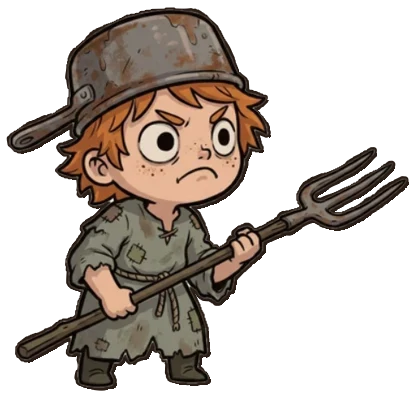
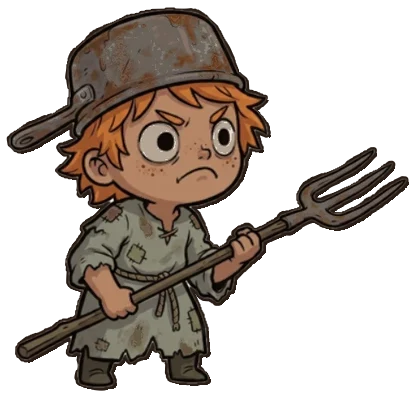
Locked palette + skin check/fix tool; hero skin toned down; height-based size ladder

diff --git a/src/game/game.ts b/src/game/game.ts
@@ -461,9 +461,11 @@ export class Game {
   }
 
   private enemyScale(kind: EnemyKind, s: Sprite): number {
-    // Painted creatures: thin shapes (raptor, bat) need more size to read in a crowd.
-    const r = { grub: 19, bat: 21, beetle: 26, wolf: 30, shroom: 22, brute: 40, boss: 64 }[kind];
-    return (r * 2.9) / s.w;
+    // Size ladder by on-screen HEIGHT (world units) against the hero (~130): small fry clearly
+    // smaller than the hero, tanks about his size, troll and ogre loom over him. Painted art is
+    // tall or wide depending on the creature, so height (not width) keeps the ladder honest.
+    const H = { grub: 70, bat: 62, shroom: 92, beetle: 120, wolf: 118, brute: 215, boss: 320 }[kind];
+    return H / s.h;
   }
 
   private drawWorld(ctx: Ctx, m: Model): void {
@@ -649,7 +651,7 @@ export class Game {
     const blink = m.invuln > 0 && m.status === 'play' && Math.floor(this.time * 18) % 2 === 0;
     const evo = this.evolveT > 0 ? 1 + Math.sin((1.3 - this.evolveT) * 14) * 0.08 * this.evolveT : 1;
     if (this.hero.ready) {
-      this.hero.draw(ctx, m.px, m.py, pr * 5.4 * evo, flip, moving, this.evolveT > 0.9 ? 1 : 0, blink ? 0.55 : 1);
+      this.hero.draw(ctx, m.px, m.py, pr * 6.0 * evo, flip, moving, this.evolveT > 0.9 ? 1 : 0, blink ? 0.55 : 1);
     } else {
       ctx.globalAlpha = blink ? 0.55 : 1;
       this.blit(ctx, s, m.px, m.py - bob, sc * evo, 1 - sq, 1 + sq, moving ? m.mx * 0.08 * flip : 0, this.evolveT > 0.9 ? 1 : 0, flip);

diff --git a/tools/anim-lab/palette.py b/tools/anim-lab/palette.py
@@ -1,0 +1,102 @@
+"""Game palette tools (STYLE-LOCK).
+  python palette.py build              -> art/STYLE-LOCK/palette.json + palette.png from the approved masters
+  python palette.py check <img...>     -> flags skin / overall brightness outside the locked range
+  python palette.py fixskin <in> <out> -> pulls skin pixels into the locked skin range
+"""
+import sys, json, colorsys
+import numpy as np
+from PIL import Image, ImageDraw
+
+def rgb_to_hsv(rgb):
+    r, g, b = rgb[..., 0], rgb[..., 1], rgb[..., 2]
+    mx = rgb.max(-1); mn = rgb.min(-1); d = mx - mn
+    h = np.zeros_like(mx); nz = d > 1e-6
+    rr = nz & (mx == r); gg = nz & (mx == g) & ~rr; bb = nz & ~rr & ~gg
+    h[rr] = ((g - b)[rr] / d[rr]) % 6; h[gg] = (b - r)[gg] / d[gg] + 2; h[bb] = (r - g)[bb] / d[bb] + 4
+    h = h / 6; s = np.where(mx > 0, d / np.maximum(mx, 1e-6), 0)
+    return np.stack([h, s, mx], -1)
+
+def hsv_to_rgb(hsv):
+    h, s, v = hsv[..., 0] * 6, hsv[..., 1], hsv[..., 2]
+    i = np.floor(h).astype(int) % 6; f = h - np.floor(h)
+    p, q, t = v * (1 - s), v * (1 - s * f), v * (1 - s * (1 - f))
+    out = np.choose(i[..., None] * 0 + np.arange(3)[None] * 0 + i[..., None], [
+        np.stack([v, t, p], -1), np.stack([q, v, p], -1), np.stack([p, v, t], -1),
+        np.stack([p, q, v], -1), np.stack([t, p, v], -1), np.stack([v, p, q], -1)])
+    return out
+
+LOCK = 'art/STYLE-LOCK/'
+MASTERS = ['enemy-gnome.jpg', 'enemy-bat.jpg', 'enemy-boarorc.jpg', 'enemy-orc.jpg', 'enemy-goblin.jpg',
+           'enemy-troll.jpg', 'enemy-ogre.jpg', 'hero-master.png']
+# Locked ranges (HSV 0-1), measured from the approved ogre + reference crops, then darkened for the dark forest floor.
+SKIN = {'h': (0.03, 0.10), 's': (0.34, 0.48), 'v': (0.60, 0.72)}
+
+def pixels(path):
+    a = np.asarray(Image.open(LOCK + path if not path.startswith(('art', 'public', 'C:', 'D:')) else path).convert('RGBA'), np.float32) / 255
+    rgb = a[..., :3].reshape(-1, 3); al = a[..., 3].reshape(-1)
+    white = (rgb.min(1) > 0.9)
+    return rgb[(al > 0.5) & ~white]
+
+def hsv(rgb):
+    return rgb_to_hsv(rgb)
+
+def is_skin(h):
+    return (h[:, 0] > 0.02) & (h[:, 0] < 0.11) & (h[:, 1] > 0.15) & (h[:, 1] < 0.6) & (h[:, 2] > 0.5)
+
+def build():
+    from scipy.cluster.vq import kmeans2
+    allpx = np.concatenate([pixels(p)[::9] for p in MASTERS])
+    np.random.seed(3)
+    cent, lab = kmeans2(allpx, 16, minit='++', seed=3)
+    order = np.argsort(-np.bincount(lab, minlength=16))
+    cols = [cent[i] for i in order]
+    hexs = ['#%02x%02x%02x' % tuple(int(c * 255) for c in col) for col in cols]
+    roles = {
+        'ink': '#2a1d16', 'skin_light': '#d9a98c', 'skin': '#c48f74', 'skin_shadow': '#9a6b58', 'blush': '#c97a72',
+        'cloth_olive': '#6f7357', 'cloth_brown': '#6b5240', 'leather': '#5a3f2c', 'rust': '#9a5a32', 'iron': '#6e6a64',
+        'hair_ginger': '#b8642e', 'orc_green': '#7f9a5a', 'goblin_green': '#8a8f55', 'mushroom_red': '#a8483a',
+        'troll_moss': '#6f7046', 'bat_grey': '#6a6460', 'eye_white': '#ece4d4', 'fire': '#e8a23a', 'blood_dark': '#4a2a22',
+    }
+    json.dump({'from_masters': hexs, 'roles': roles, 'skin_hsv_range': SKIN,
+               'rules': ['No pure white or pure black fills (eye whites use eye_white, lines use ink).',
+                         'Max saturation 0.55 except fire / magic VFX.',
+                         'Skin must stay inside skin_hsv_range (check with palette.py check).',
+                         'Each enemy keeps ONE identity colour from roles, muted.']},
+              open(LOCK + 'palette.json', 'w'), indent=1)
+    W = 120; im = Image.new('RGB', (W * 8, W * 2 + 40 + 40 * ((len(roles) + 5) // 6)), (40, 34, 30)); d = ImageDraw.Draw(im)
+    for i, h in enumerate(hexs):
+        x, y = (i % 8) * W, (i // 8) * W
+        d.rectangle([x + 4, y + 4, x + W - 4, y + W - 4], fill=h); d.text((x + 8, y + W - 20), h, fill='white')
+    y0 = W * 2 + 20
+    for i, (k, h) in enumerate(roles.items()):
+        x, y = (i % 6) * 160, y0 + (i // 6) * 40
+        d.rectangle([x + 4, y, x + 40, y + 32], fill=h); d.text((x + 46, y + 10), k, fill='white')
+    im.save(LOCK + 'palette.png'); print('palette ->', LOCK + 'palette.json / palette.png')
+
+def check(paths):
+    for p in paths:
+        px = pixels(p); h = hsv(px); sk = h[is_skin(h)]
+        msg = f'{p}: brightness {h[:,2].mean():.2f} sat {h[:,1].mean():.2f}'
+        if len(sk) > 200:
+            s, v = sk[:, 1].mean(), sk[:, 2].mean()
+            ok = SKIN['s'][0] <= s <= SKIN['s'][1] and SKIN['v'][0] <= v <= SKIN['v'][1]
+            msg += f' | skin s={s:.2f} v={v:.2f} ' + ('OK' if ok else 'OUT OF RANGE')
+        print(msg)
+
+def fixskin(src, dst):
+    im = Image.open(src).convert('RGBA'); a = np.asarray(im, np.float32) / 255
+    h = rgb_to_hsv(a[..., :3]); m = (h[..., 0] > 0.02) & (h[..., 0] < 0.11) & (h[..., 1] > 0.12) & (h[..., 1] < 0.6) & (h[..., 2] > 0.45) & (a[..., 3] > 0.3)
+    flat = h.reshape(-1, 3); sk = flat[is_skin(flat) & (a[..., 3].reshape(-1) > 0.5)]; s0, v0 = sk[:, 1].mean(), sk[:, 2].mean()
+    ts, tv = np.mean(SKIN['s']), np.mean(SKIN['v'])
+    h[..., 1] = np.where(m, np.clip(h[..., 1] * ts / s0, 0, 1), h[..., 1])
+    h[..., 2] = np.where(m, np.clip(h[..., 2] * tv / v0, 0, 1), h[..., 2])
+    h[..., 0] = np.where(m, h[..., 0] * 0.92 + 0.065 * 0.08, h[..., 0])
+    a[..., :3] = hsv_to_rgb(h)
+    Image.fromarray((a * 255).astype(np.uint8), 'RGBA').save(dst)
+    print(f'skin s {s0:.2f}->{ts:.2f}  v {v0:.2f}->{tv:.2f}  -> {dst}')
+
+if __name__ == '__main__':
+    cmd = sys.argv[1]
+    if cmd == 'build': build()
+    elif cmd == 'check': check(sys.argv[2:])
+    elif cmd == 'fixskin': fixskin(sys.argv[2], sys.argv[3])
